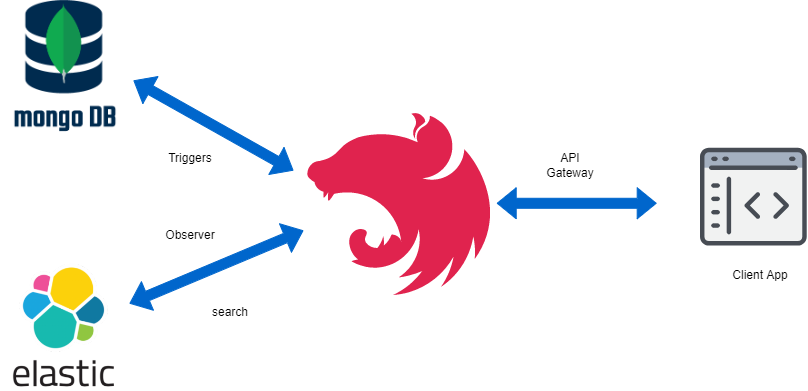
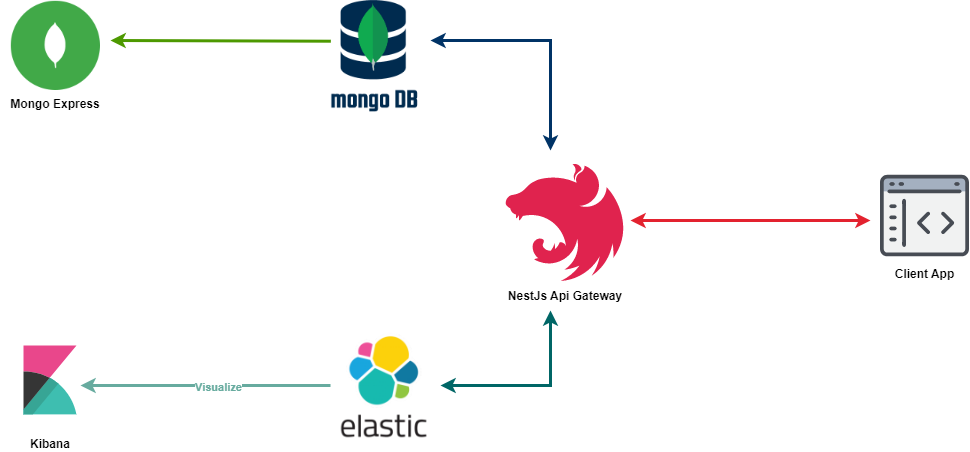
feat: add data flow  diagram
close :20

diff --git a/README.md b/README.md
@@ -1,6 +1,10 @@
 # Architecture Components
-![My animated logo](architecture.png)
+![Architecture Components](architecture.png)
 _Abstract architecture overview diagram_
+
+# Dataflow Diagram
+![Data flow diagram](dfd.png)
+_Data flow diagram_
 ## Local Infrastructure
 
 Use **docker-compose** to run infrastructure locally.
